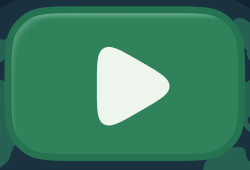
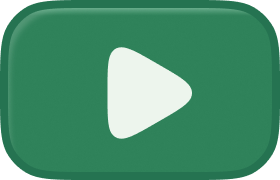
Use cut-out play button from Figma in outro
Claude-Session: https://claude.ai/code/session_01RvUTQRLFqTPWzf27vUXUyM

diff --git a/projects/pogo-planet-promo/compositions/index.html b/projects/pogo-planet-promo/compositions/index.html
@@ -22,7 +22,7 @@
       .rays { position: absolute; left: 160px; top: -560px; width: 1600px; height: 1600px; fill: #fff; opacity: 0; }
       #logo0 { position: absolute; left: 560px; top: 60px; width: 800px; }
       #logo7 { position: absolute; left: 460px; top: 150px; width: 1000px; }
-      #play { position: absolute; left: 810px; top: 690px; width: 300px; }
+      #play { position: absolute; left: 790px; top: 680px; width: 340px; filter: drop-shadow(0 12px 24px rgba(0,0,0,.45)); }
       #vig { position: absolute; inset: 0; background: radial-gradient(ellipse at center, rgba(0,0,0,0) 55%, rgba(0,0,0,.45) 100%); z-index: 40; pointer-events: none; }
       #wipe { position: absolute; left: 0; top: 0; width: 2400px; height: 1080px; z-index: 50; }
     </style>
